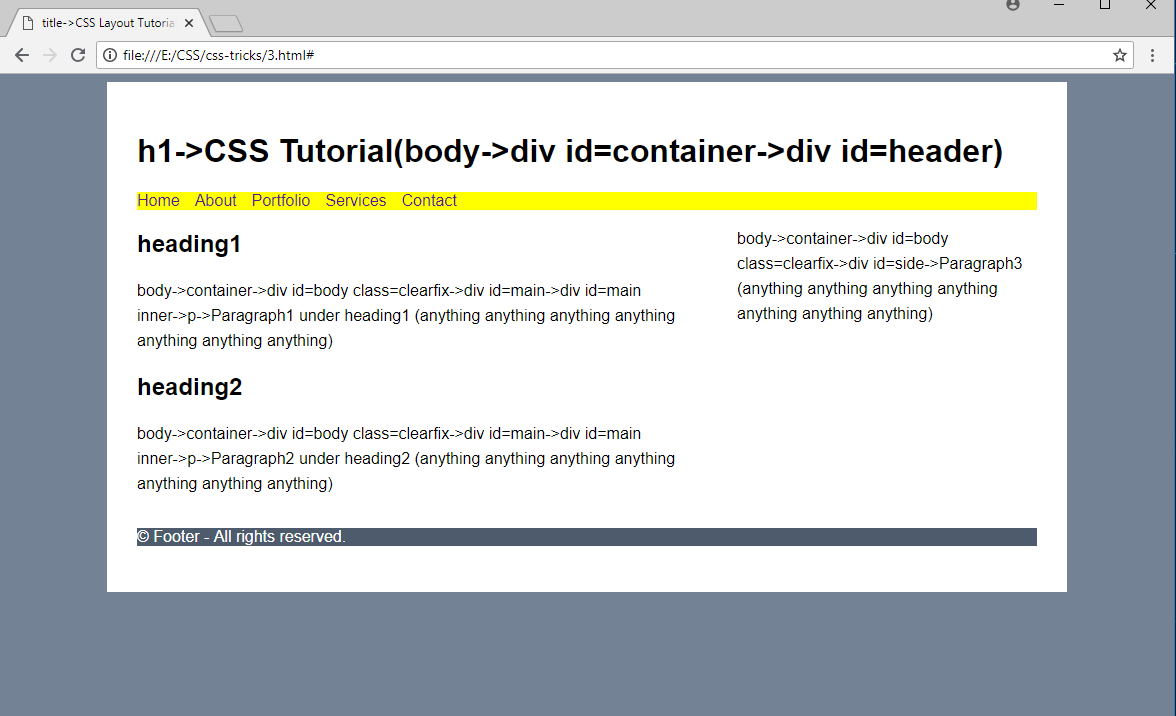
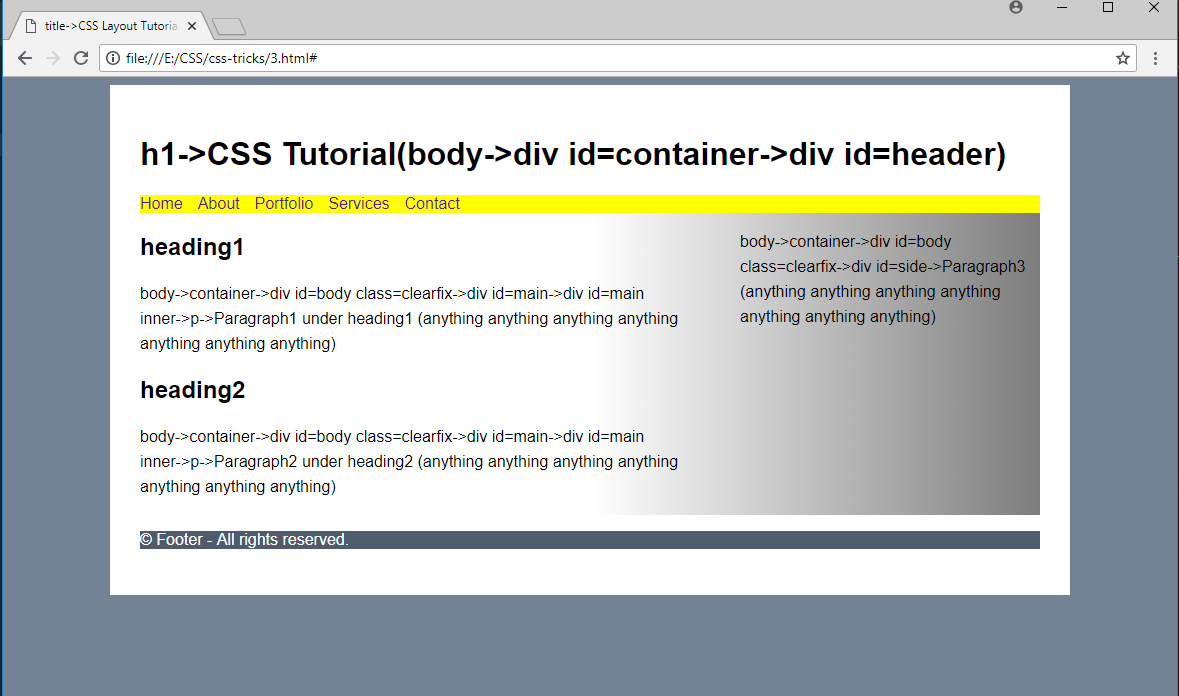
background image or gradient added in 3

diff --git a/3.css b/3.css
@@ -15,7 +15,9 @@ body {	font-family: Arial, sans-serif;    	background-color: #738294;  /*outside
         padding: 0 15px 0 0; /* space between list-- clock wise--top side(15px) bottom left */
       }
 #nav li a:link, #nav li a:visited {	text-decoration: none;} /*removes the under line */
-#body {}
+#body {   /*background: linear-gradient(to right,white, white , #7c7c7c); */
+         background: url(./screenshots/3.jpg) ;
+       }
 #body p {	line-height: 1.6em;} /* line spacing in paragraphs*/
 .main {	width: 600px;	float: left;}
 .main-padding {	padding: 0 60px 0 0;} /*main para padding--clock wise- top rt bottom left */
